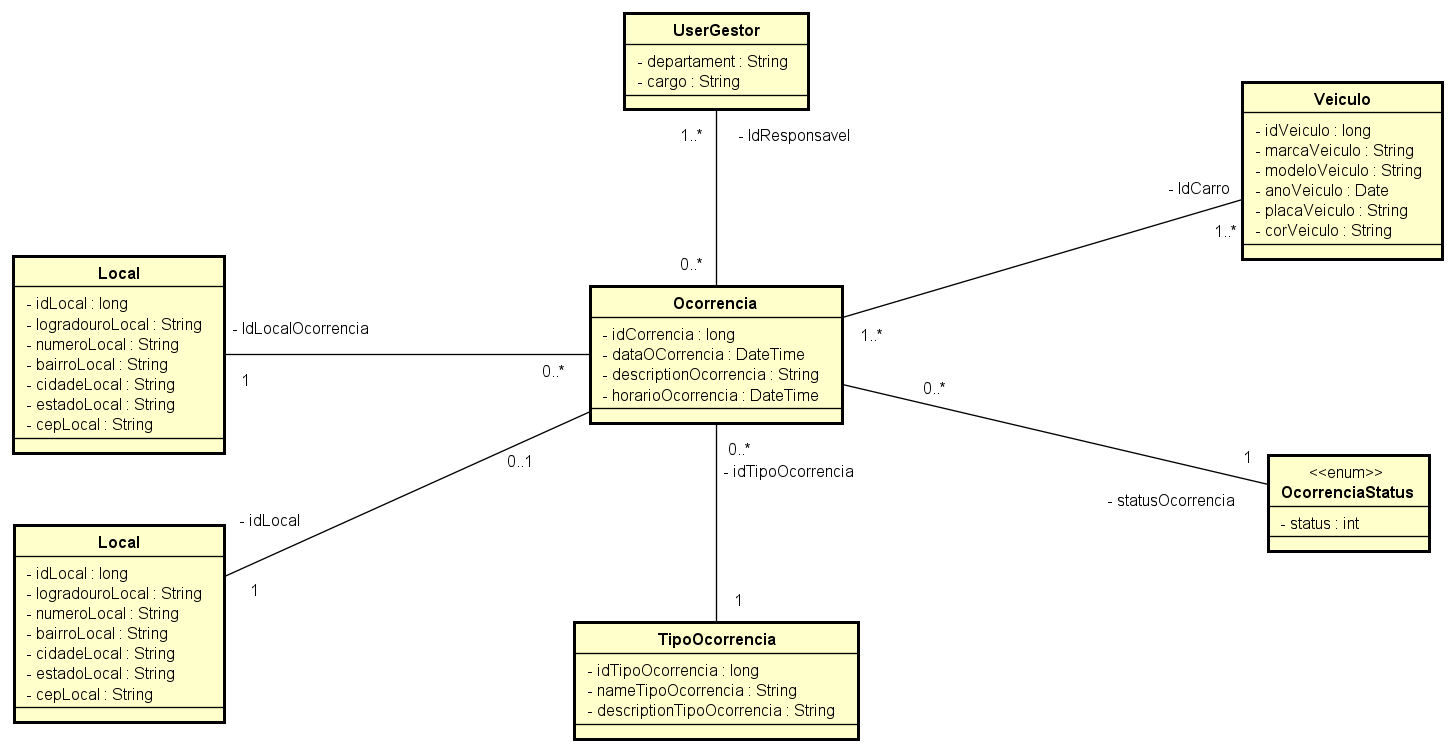
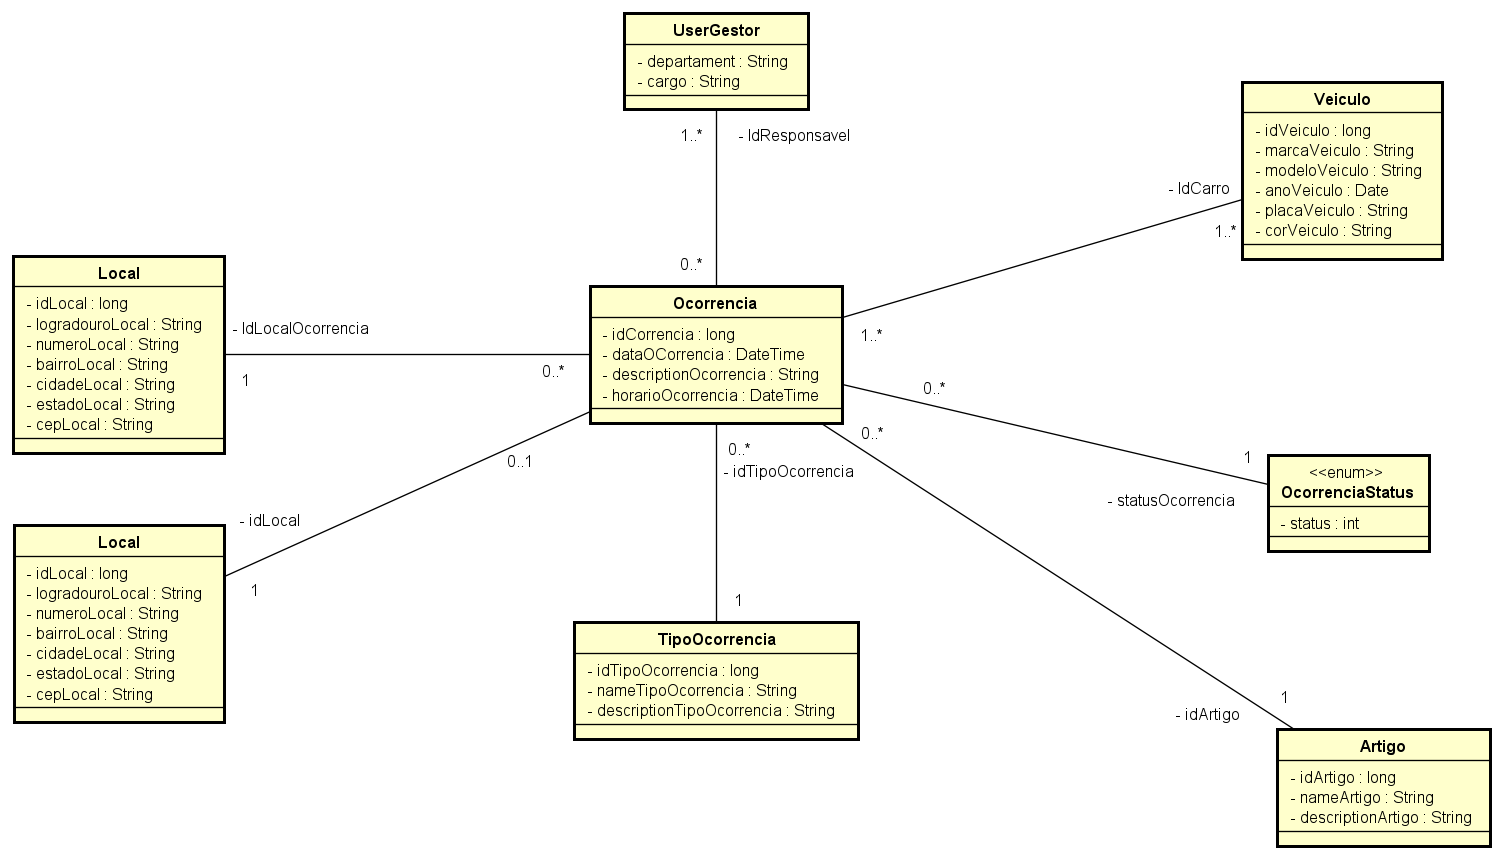
BackEnd: Refaturado o evento para adicionar nova denuncia

diff --git a/backend/src/main/java/com/system/watchCar/service/OcorrenciaService.java b/backend/src/main/java/com/system/watchCar/service/OcorrenciaService.java
@@ -8,7 +8,6 @@ import com.system.watchCar.dto.requests.DenunciaRequest;
 import com.system.watchCar.dto.requests.VeiculoRequest;
 import com.system.watchCar.entity.*;
 import com.system.watchCar.enums.OcorrenciaStatus;
-import com.system.watchCar.enums.TipoTemplateEmail;
 import com.system.watchCar.repository.*;
 import com.system.watchCar.service.exceptions.UserExecption;
 import jakarta.persistence.criteria.Predicate;
@@ -25,24 +24,27 @@ import java.util.*;
 @Service
 public class OcorrenciaService {
 
-    private final OcorrenciaRepository repository;
     private final UserRepository userRepository;
+    private final UserService userService;
     private final UserGestorRepository userGestorRepository;
-    private final VeiculoRepository veiculoRepository;
     private final ResponsavelRepository responsavelRepository;
+
+    private final VeiculoRepository veiculoRepository;
     private final ArtigoRepository artigoRepository;
     private final AcaoInvestigacaoRepository acaoInvestigacaoRepository;
     private final EmailService emailService;
     private final LocalRepository localRepository;
     private final RoleService roleService;
 
+    private final OcorrenciaRepository repository;
     private final OcorrenciaRepository ocorrenciaRepository;
     private final OcorrenciaTipoRepository ocorrenciaTipoRepository;
 
 
-    public OcorrenciaService(OcorrenciaRepository repository, UserRepository userRepository, UserGestorRepository userGestorRepository, VeiculoRepository veiculoRepository, ResponsavelRepository responsavelRepository, ArtigoRepository artigoRepository, AcaoInvestigacaoRepository acaoInvestigacaoRepository, EmailService emailService, LocalRepository localRepository, RoleService roleService, OcorrenciaRepository ocorrenciaRepository, OcorrenciaTipoRepository ocorrenciaTipoRepository) {
-        this.repository = repository;
+    public OcorrenciaService(UserRepository userRepository, OcorrenciaRepository repository, UserService userService, UserGestorRepository userGestorRepository, VeiculoRepository veiculoRepository, ResponsavelRepository responsavelRepository, ArtigoRepository artigoRepository, AcaoInvestigacaoRepository acaoInvestigacaoRepository, EmailService emailService, LocalRepository localRepository, RoleService roleService, OcorrenciaRepository ocorrenciaRepository, OcorrenciaTipoRepository ocorrenciaTipoRepository) {
         this.userRepository = userRepository;
+        this.repository = repository;
+        this.userService = userService;
         this.userGestorRepository = userGestorRepository;
         this.veiculoRepository = veiculoRepository;
         this.responsavelRepository = responsavelRepository;
@@ -87,7 +89,7 @@ public class OcorrenciaService {
     public Ocorrencia criarDenuncia(DenunciaRequest request) {
 
         // Validar se o usuário responsável existe
-        if(request.getIdResponsavel()<1) {
+        if (request.getIdResponsavel() < 1) {
             throw new UserExecption("Responsável inválido");
         }
         UserGestor responsavel = null;
@@ -98,8 +100,13 @@ public class OcorrenciaService {
 
         // Validar se o usuário denunciante existe
         UserExecption.validation(request.getDenunciante());
-        User denunciante = userRepository.findByEmail(request.getDenunciante().getEmail())
-                .orElseThrow(() -> new UserExecption("Usuário denunciante não encontrado"));
+        User denunciante = null;
+        if (userRepository.findByEmail(request.getDenunciante().getEmail()).isPresent()) {
+            denunciante = userService.findByEmail(request.getDenunciante().getEmail()).toUserSimple(User.class);
+        } else {
+            denunciante = userService.save(request.getDenunciante()).toUserSimple(User.class);
+        }
+
 
         // Veículo
         if (request.getVeiculos().isEmpty()) {
@@ -110,6 +117,19 @@ public class OcorrenciaService {
         if (Objects.isNull(request.getLocal())
                 || Objects.isNull(request.getLocal().getCep())
                 || request.getLocal().getCep().isEmpty()) {
+            throw new UserExecption("Local da ocorrência não informado");
+        }
+        Local local = null;
+        if (localRepository.findByCep(request.getLocal().getCep()).isPresent()) {
+            local = localRepository.findByCep(request.getLocal().getCep()).get();
+        } else {
+            local = localRepository.save(request.getLocal().toLocal(Local.class));
+        }
+
+        // Local da ocorrência
+        if (Objects.isNull(request.getLocalOcorrencia())
+                || Objects.isNull(request.getLocalOcorrencia().getCep())
+                || request.getLocalOcorrencia().getCep().isEmpty()) {
             throw new UserExecption("Local da ocorrência não informado");
         }
         Local localOcorrencia = null;
@@ -125,8 +145,8 @@ public class OcorrenciaService {
         ocorrencia.setStatusOcorrencia(OcorrenciaStatus.PENDENTE);
 
         // Tipo de ocorrência
-        OcorrenciaTipo tipoOcorrencia = ocorrenciaTipoRepository.findById(ocorrencia.getIdOcorrencia())
-                        .orElseThrow(()-> new UserExecption("Tipo de ocorrência inválido"));
+        OcorrenciaTipo tipoOcorrencia = ocorrenciaTipoRepository.findById(request.getTipo())
+                .orElseThrow(() -> new UserExecption("Tipo de ocorrência inválido"));
         ocorrencia.setTipoOcorrencia(tipoOcorrencia);
 
         // Artigo
@@ -134,38 +154,43 @@ public class OcorrenciaService {
             throw new UserExecption("Artigo inválido");
         }
         Artigo artigo = artigoRepository.findById(request.getIdArtigo())
-                .orElseThrow(()-> new UserExecption("Artigo não encontrado"));
+                .orElseThrow(() -> new UserExecption("Artigo não encontrado"));
         ocorrencia.setArtigo(artigo);
 
         // Responsável
         ocorrencia.setLocalOcorrencia(request.getLocalOcorrencia());
         ocorrencia.setGestorSecurity(responsavel);
+        ocorrencia.setLocalOcorrencia(local);
 
         // Denunciante
         ocorrencia.setDenunciante(denunciante);
         ocorrencia.setDataHoraOcorrencia(request.getDataHora());
         ocorrencia.setLocalDaOcorrencia(localOcorrencia);
         // Veículos
-        List<Veiculo> veiculos = new ArrayList<>();
+        if (request.getVeiculos().isEmpty()) {
+            throw new UserExecption("Nenhum veículo informado na denúncia");
+        }
         for (VeiculoRequest veiculo : request.getVeiculos()) {
-            veiculos.add(veiculoRepository.save(veiculo.toVeiculo(Veiculo.class)));
+            veiculo.setUser(denunciante);
+            ocorrencia.addVeiculosOcorrencia(veiculoRepository.save(veiculo.toVeiculo(Veiculo.class)));
         }
 
 
-        if (true) {
-
-            // Preparar os dados para o template
-            Map<String, Object> templateVariables = new HashMap<>();
-            templateVariables.put("ocorrencia", ocorrencia);
-            templateVariables.put("denunciante", denunciante);
-
-            // Enviar o e-mail com o template
-            emailService.enviarEmailComTemplate(
-                    denunciante.getEmail(),
-                    TipoTemplateEmail.NOVA_DENUNCIA,
-                    templateVariables
-            );
-        }
+        // Todo: Implementar lógica para enviar e-mail de notificação
+//        if (true) {
+//
+//            // Preparar os dados para o template
+//            Map<String, Object> templateVariables = new HashMap<>();
+//            templateVariables.put("ocorrencia", ocorrencia);
+//            templateVariables.put("denunciante", denunciante);
+//
+//            // Enviar o e-mail com o template
+//            emailService.enviarEmailComTemplate(
+//                    denunciante.getEmail(),
+//                    TipoTemplateEmail.NOVA_DENUNCIA,
+//                    templateVariables
+//            );
+//        }
         return ocorrenciaRepository.save(ocorrencia);
     }
 

diff --git a/backend/src/main/java/com/system/watchCar/service/UserService.java b/backend/src/main/java/com/system/watchCar/service/UserService.java
@@ -7,6 +7,7 @@ import com.system.watchCar.dto.response.UserSimpleResponse;
 import com.system.watchCar.entity.User;
 import com.system.watchCar.entity.UserAgente;
 import com.system.watchCar.entity.UserGestor;
+import com.system.watchCar.interfaces.IUserSimple;
 import com.system.watchCar.repository.RoleRepository;
 import com.system.watchCar.repository.UserAgenteRepository;
 import com.system.watchCar.repository.UserGestorRepository;
@@ -89,8 +90,20 @@ public class UserService implements UserDetailsService {
         } else if (Objects.nonNull(agente)) {
             return userAgenteRepository.save(agente).toUserSimple(UserSimpleResponse.class);
         } else {
-            return userRepository.save(user).toUserSimple(UserSimpleResponse.class);
+            return save(user).toUserSimple(UserSimpleResponse.class);
         }
+    }
+
+    @Transactional
+    public IUserSimple save(IUserSimple entity) {
+        return userRepository.save(entity.toUserSimple(User.class));
+    }
+
+    @Transactional(readOnly = true)
+    public UserDTO findByEmail(String email) {
+        return userRepository.findByEmail(email)
+                .map(UserDTO::new)
+                .orElseThrow(() -> new UserExecption("User not found with email: " + email));
     }
 
     @Override

diff --git a/backend/src/main/java/com/system/watchCar/dto/requests/VeiculoRequest.java b/backend/src/main/java/com/system/watchCar/dto/requests/VeiculoRequest.java
@@ -15,6 +15,7 @@ public class VeiculoRequest implements IVeiculo {
     private String placaVeiculo;
     private String corVeiculo;
     private VeiculoType veiculoType;
+    private UserRequest user;
 
     public VeiculoRequest() {
     }
@@ -105,12 +106,13 @@ public class VeiculoRequest implements IVeiculo {
 
     @JsonIgnore
     @Override
-    public <U extends IUserSimple> IVeiculo setUser(U user) {
-        return null;
+    public <U extends IUserSimple> VeiculoRequest setUser(U user) {
+        this.user = user.toUserSimple(UserRequest.class);
+        return this;
     }
 
     @Override
-    public IUserSimple getUser() {
-        return null;
+    public UserRequest getUser() {
+        return user;
     }
 }

diff --git a/backend/src/main/java/com/system/watchCar/entity/User.java b/backend/src/main/java/com/system/watchCar/entity/User.java
@@ -40,8 +40,8 @@ public class User implements IUserSimple, UserDetails {
 
     @ManyToMany(fetch = FetchType.EAGER)
     @JoinTable(name = "tb_user_role",
-            joinColumns = @JoinColumn(name = "user_userId"),
-            inverseJoinColumns = @JoinColumn(name = "role_roleId"))
+            joinColumns = @JoinColumn(name = "user_id"),
+            inverseJoinColumns = @JoinColumn(name = "role_id"))
     private Set<Role> roles = new HashSet<>();
 
     public User() {

diff --git a/backend/src/main/java/com/system/watchCar/entity/UserAgente.java b/backend/src/main/java/com/system/watchCar/entity/UserAgente.java
@@ -2,10 +2,12 @@ package com.system.watchCar.entity;
 
 import com.system.watchCar.interfaces.IAgente;
 import jakarta.persistence.Entity;
+import jakarta.persistence.PrimaryKeyJoinColumn;
 import jakarta.persistence.Table;
 
 @Entity
 @Table(name = "TB_USER_AGENTE")
+@PrimaryKeyJoinColumn(name = "user_id")
 public class UserAgente extends User implements IAgente {
 
     private String delegate;
